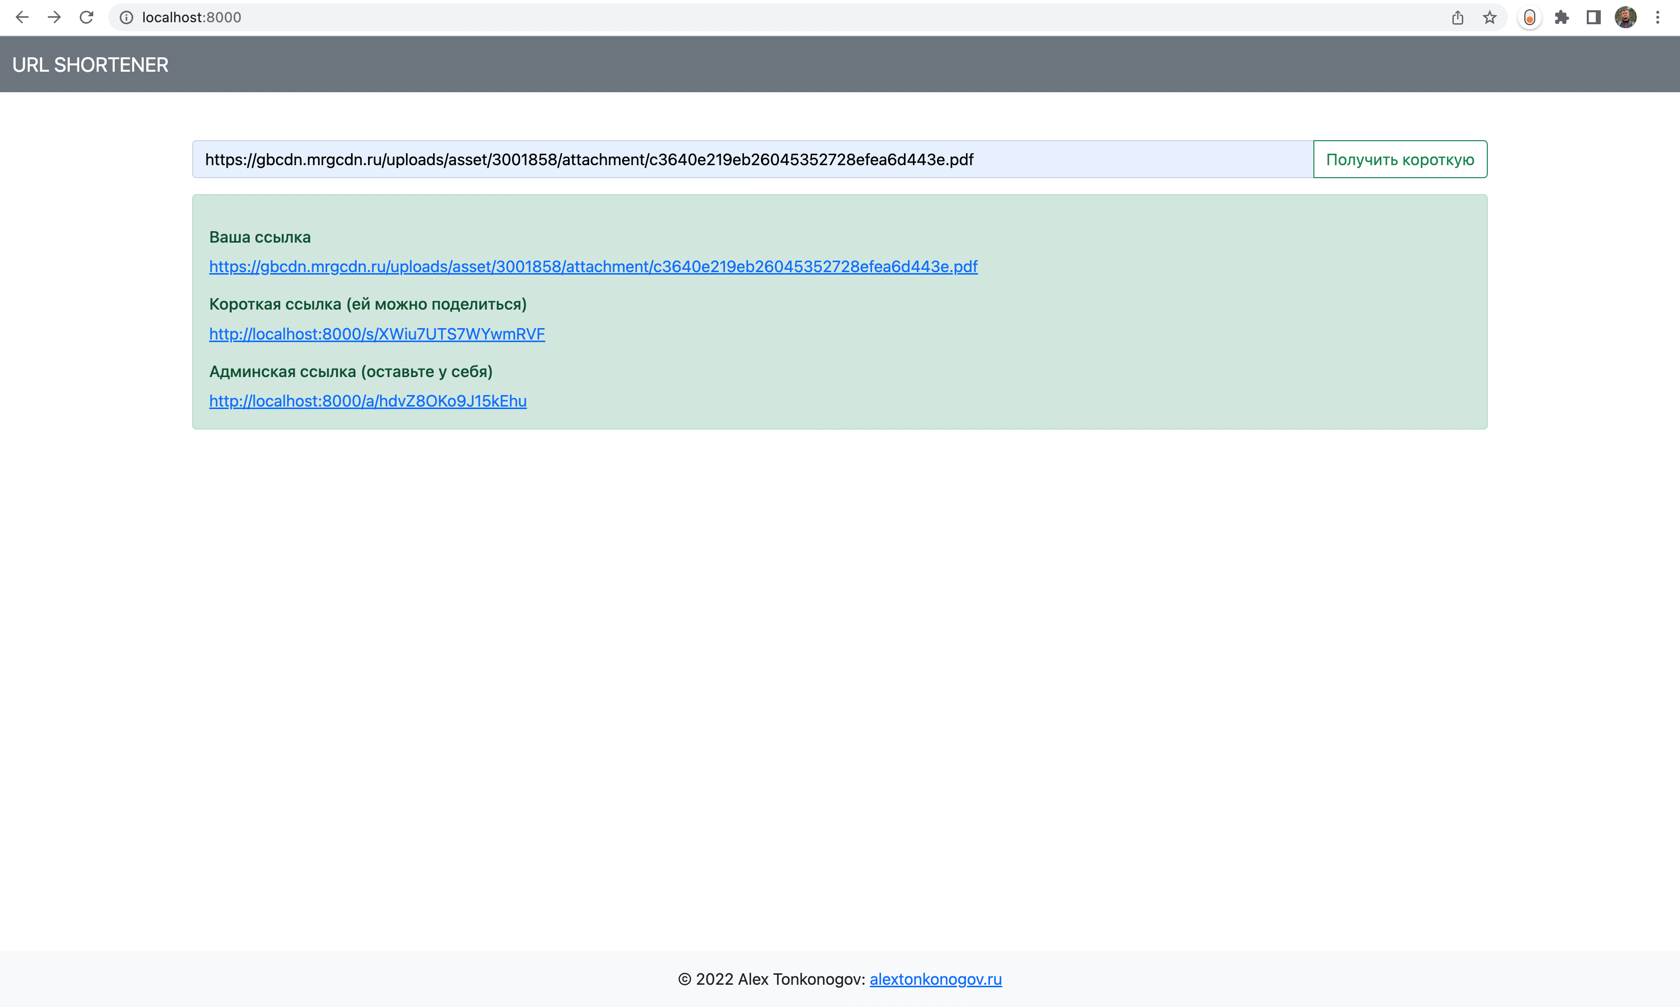
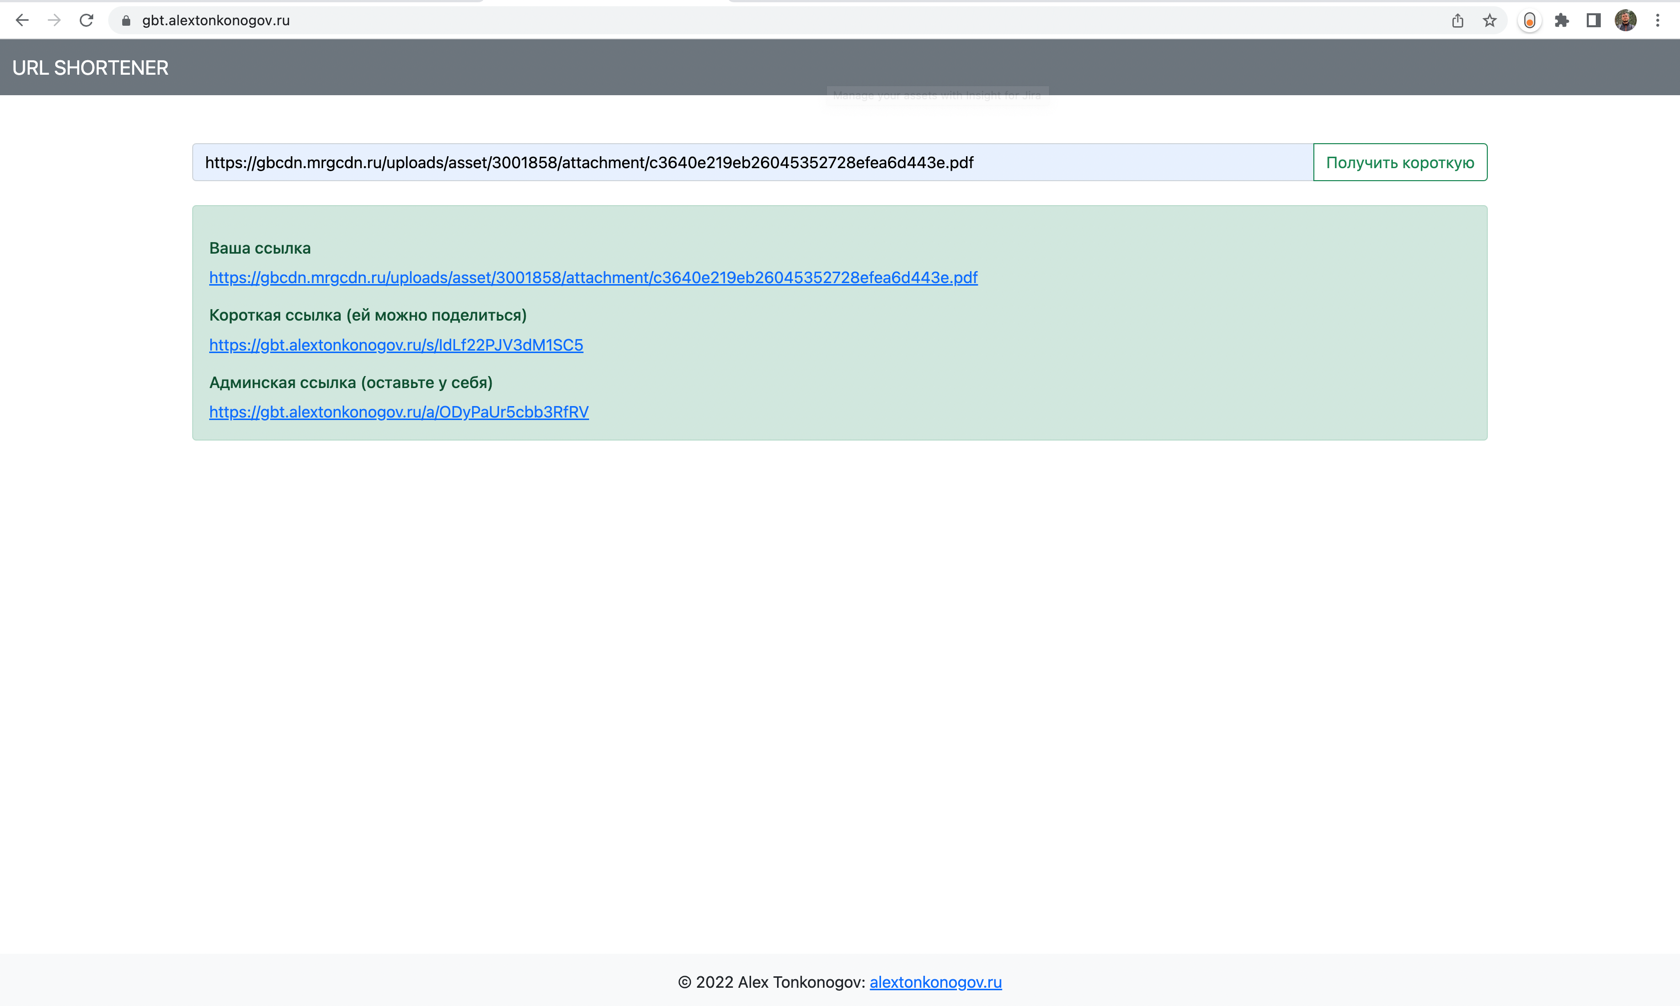
- current version

Changed region(s): [[0.0929, 0.1233, 0.8976, 0.4622], [0.0, 0.0, 1.0, 0.0924], [0.4024, 0.9553, 0.5881, 0.9861]]

diff --git a/README.md b/README.md
@@ -1,13 +1,14 @@
 # Курсовой проект URL Shortener
 
-Текущая версия проекта полностью работоспособна, но написана она была между первым и третьим занятием данного курса, поэтому пока не выдержана структура проекта, не использован подход гексагональной архитектуры, нет тестов и прочих свистелок. Есть возможность запуститься локально через Docker Compose. Постараюсь привести проект в порядок до 4 июля.
-Развернул текущую версию приложения у себя на сайте (платформа NetAngels) - [gbt.alextonkonogov.ru](https://gbt.alextonkonogov.ru/)
+Текущая версия проекта развернута у меня на сайте (платформа NetAngels) - [gbt.alextonkonogov.ru](https://gbt.alextonkonogov.ru/)
+![image](img.png)
 ![image](img_1.png)
 
-Код текущей версии в ветке main: https://github.com/alextonkonogov/gb-go-url-shortener/tree/main 
+Также есть возможность запуститься локально через Docker Compose.
+![image](img_2.png)
 
-В данный момент я работаю над финальной версией проекта с учетом всего, что мы изучали на курсе. Она еще не готова и мне нужно доп время до конца недели.
+Я еще над ней работаю (нет тестов и логов). Мне нужно доп время до конца недели.
 Код в ветке final_v: https://github.com/alextonkonogov/gb-go-url-shortener/tree/final_v
 
-Ее можно запустить через compose локально и посмотреть в деле.
-![image](img.png)
+Прошу обратить внимание, что в ветке main находится самая первая версия, которую я написал между первым и третьим занятием данного курса - писал как знал и умел на тот момент.
+На нее особо не смотрите, хотя она тоже работает.
